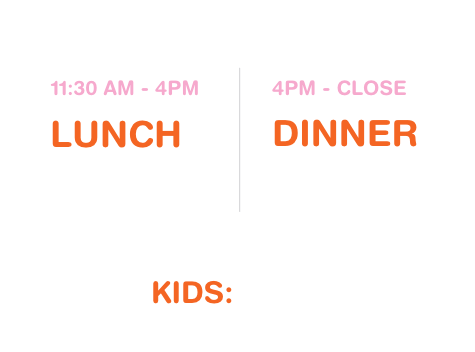
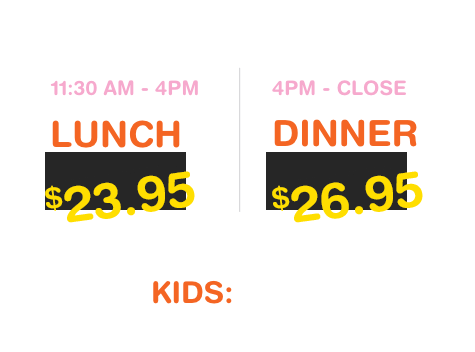
updated Ayce Menu

Changed region(s): [[0.56, 0.4062, 0.9137, 0.6562], [0.0884, 0.4062, 0.4126, 0.6562]]

diff --git a/pages/ayce.js b/pages/ayce.js
@@ -1,10 +1,10 @@
 import Layout from "../components/Layout";
 import Container from "@material-ui/core/Container";
 import { makeStyles } from "@material-ui/core/styles";
-import Paper from "@material-ui/core/Paper";
 import Grid from "@material-ui/core/Grid";
 
-import ScrollableTabsButtonAuto from "../components/AyceMenu";
+// import ScrollableTabsButtonAuto from "../components/AyceMenu";
+import NewAyceMenu from "../components/NewAyceMenu";
 
 const useStyles = makeStyles(theme => ({
   root: {
@@ -57,7 +57,7 @@ export default function ayce() {
           <Grid container spacing={3}>
             <Grid item xs={12}></Grid>
             <Grid item xs={12}>
-              <ScrollableTabsButtonAuto></ScrollableTabsButtonAuto>
+              <NewAyceMenu></NewAyceMenu>
             </Grid>
           </Grid>
         </div>

diff --git a/components/newAyceMenu.js b/components/newAyceMenu.js
@@ -1,0 +1,17 @@
+const ayceFreshRolls = "../static/ayceMenu/ayceFreshRolls.jpg";
+const ayceTempuraRolls = "../static/ayceMenu/ayceTempuraRolls.jpg";
+const ayceBakedRolls = "../static/ayceMenu/ayceBakedRolls.jpg";
+const ayceSpecialItems = "../static/ayceMenu/ayceSpecialItems.jpg";
+// const ayceBeverages = "../static/ayceMenu/ayceBeverages.jpg";
+
+export default function NewAyceMenu() {
+  return (
+    <div>
+      <img src={ayceFreshRolls} loading="lazy" alt="Fresh Rolls"></img>
+      <img src={ayceTempuraRolls} loading="lazy" alt="Tempura Rolls"></img>
+      <img src={ayceBakedRolls} loading="lazy" alt="Baked Rolls"></img>
+      <img src={ayceSpecialItems} loading="lazy" alt="Special Items"></img>
+      {/* <img src={ayceBeverages}></img> */}
+    </div>
+  );
+}

diff --git a/.next/static/runtime/webpack.js b/.next/static/runtime/webpack.js
@@ -113,7 +113,7 @@
 /******/
 /******/ 	var hotApplyOnUpdate = true;
 /******/ 	// eslint-disable-next-line no-unused-vars
-/******/ 	var hotCurrentHash = "139923d77951a9fc72b2";
+/******/ 	var hotCurrentHash = "f91e2862f7ebb427d7ca";
 /******/ 	var hotRequestTimeout = 10000;
 /******/ 	var hotCurrentModuleData = {};
 /******/ 	var hotCurrentChildModule;
